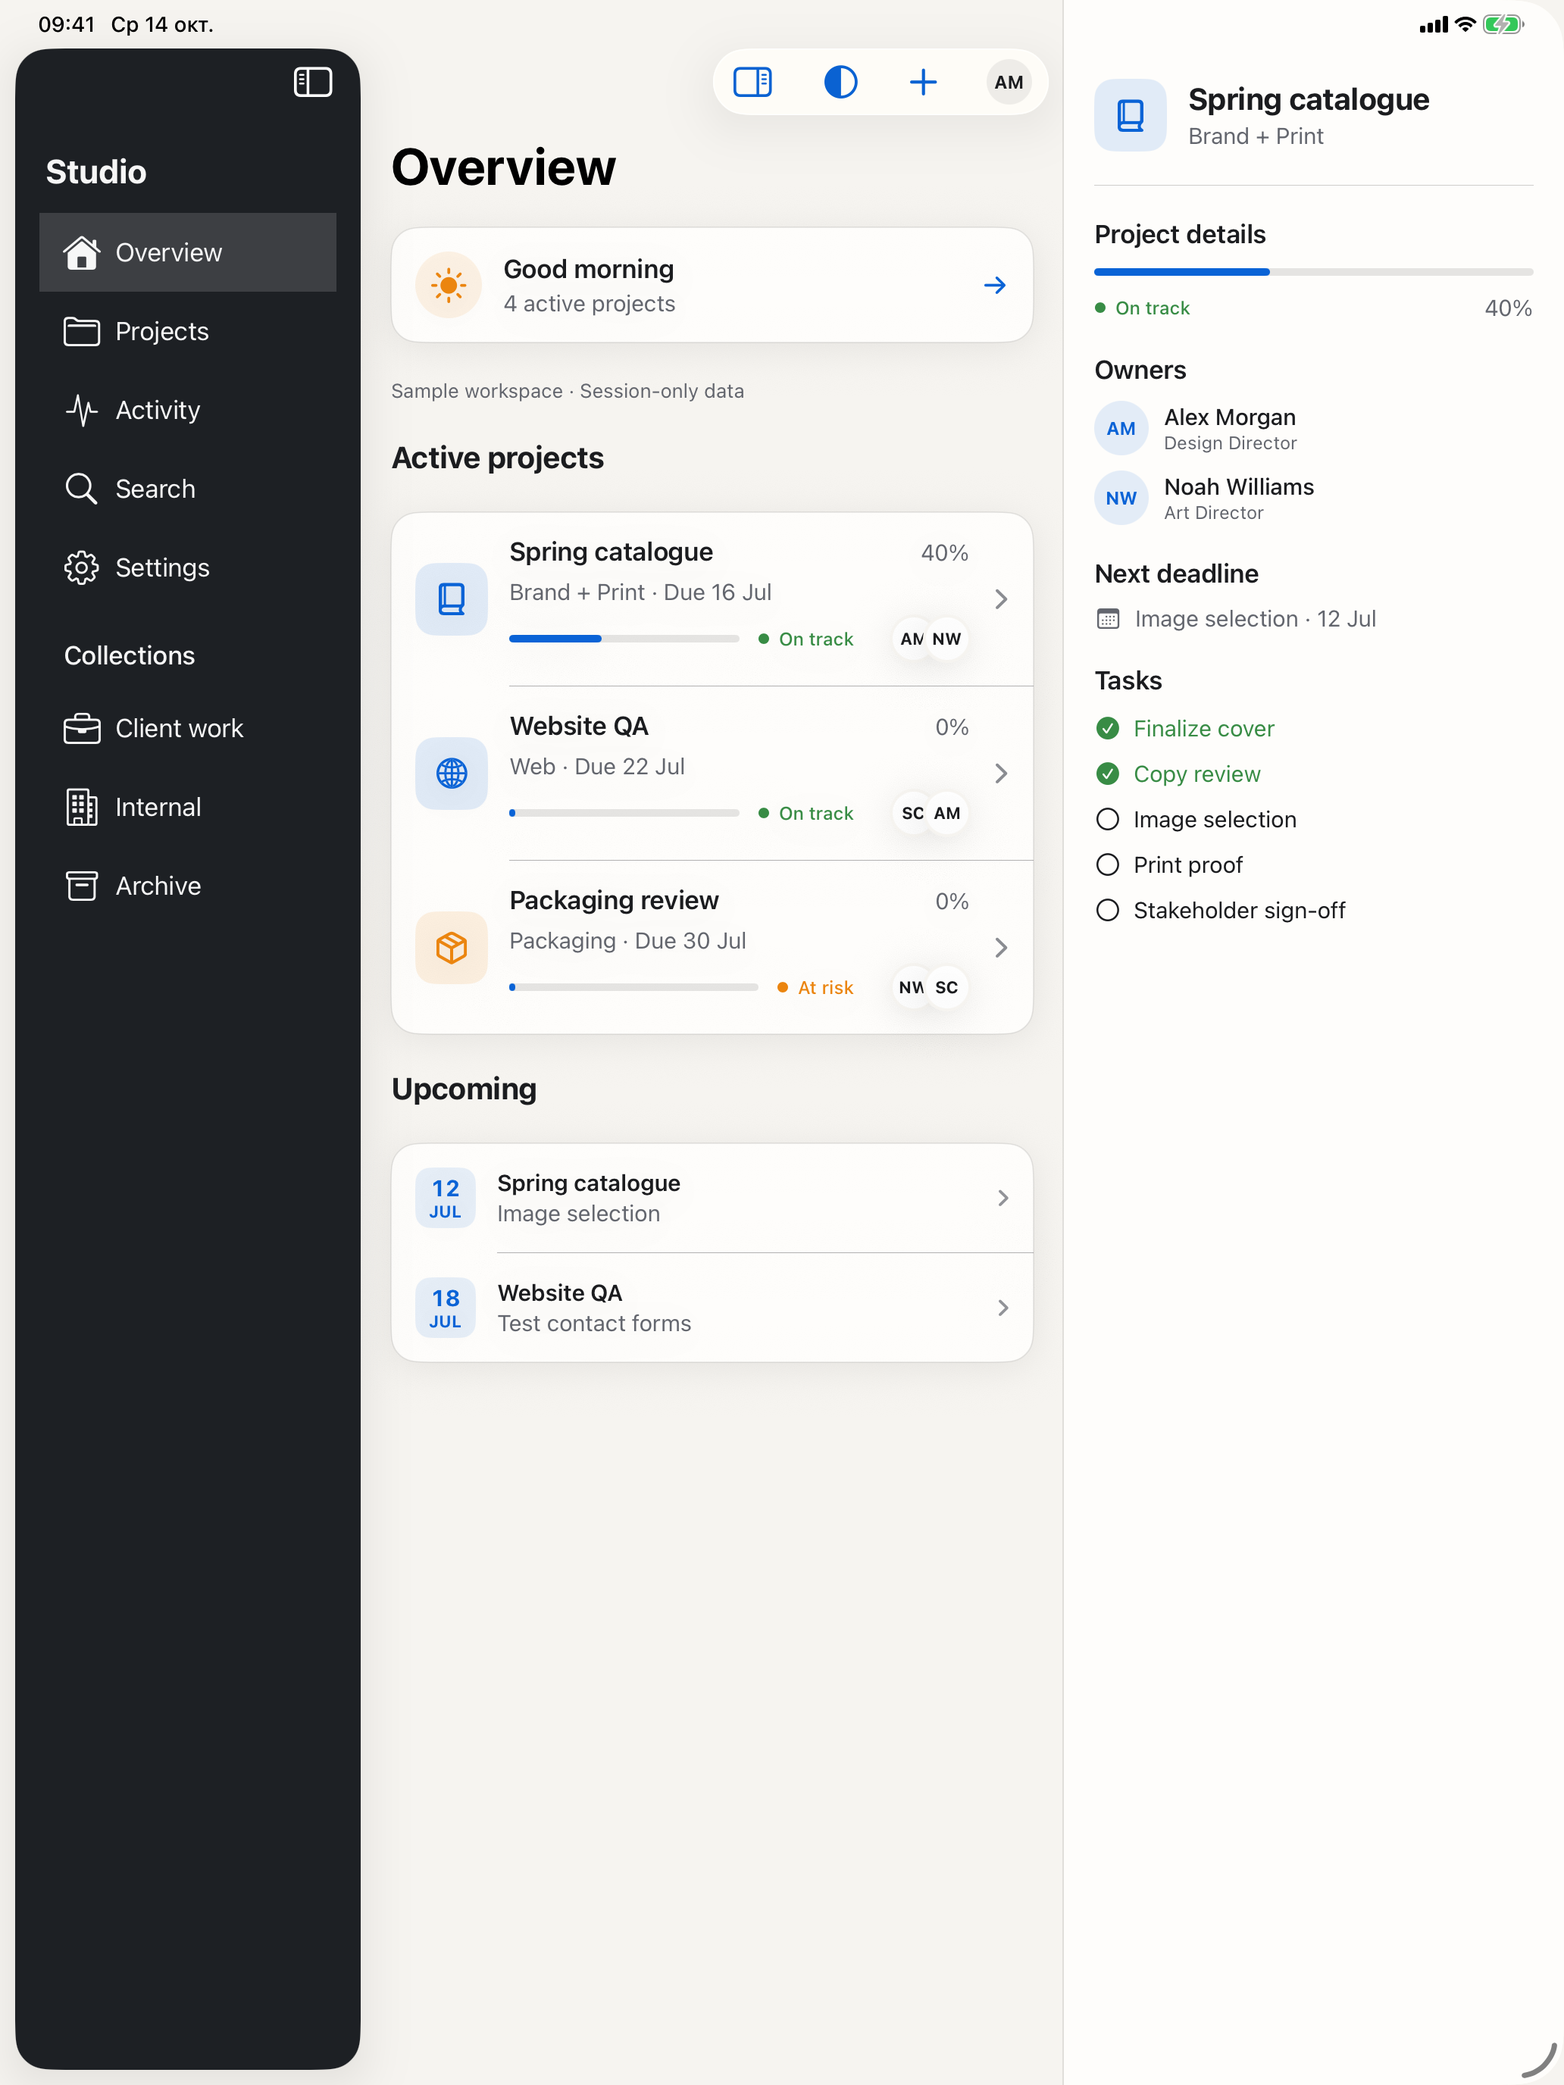
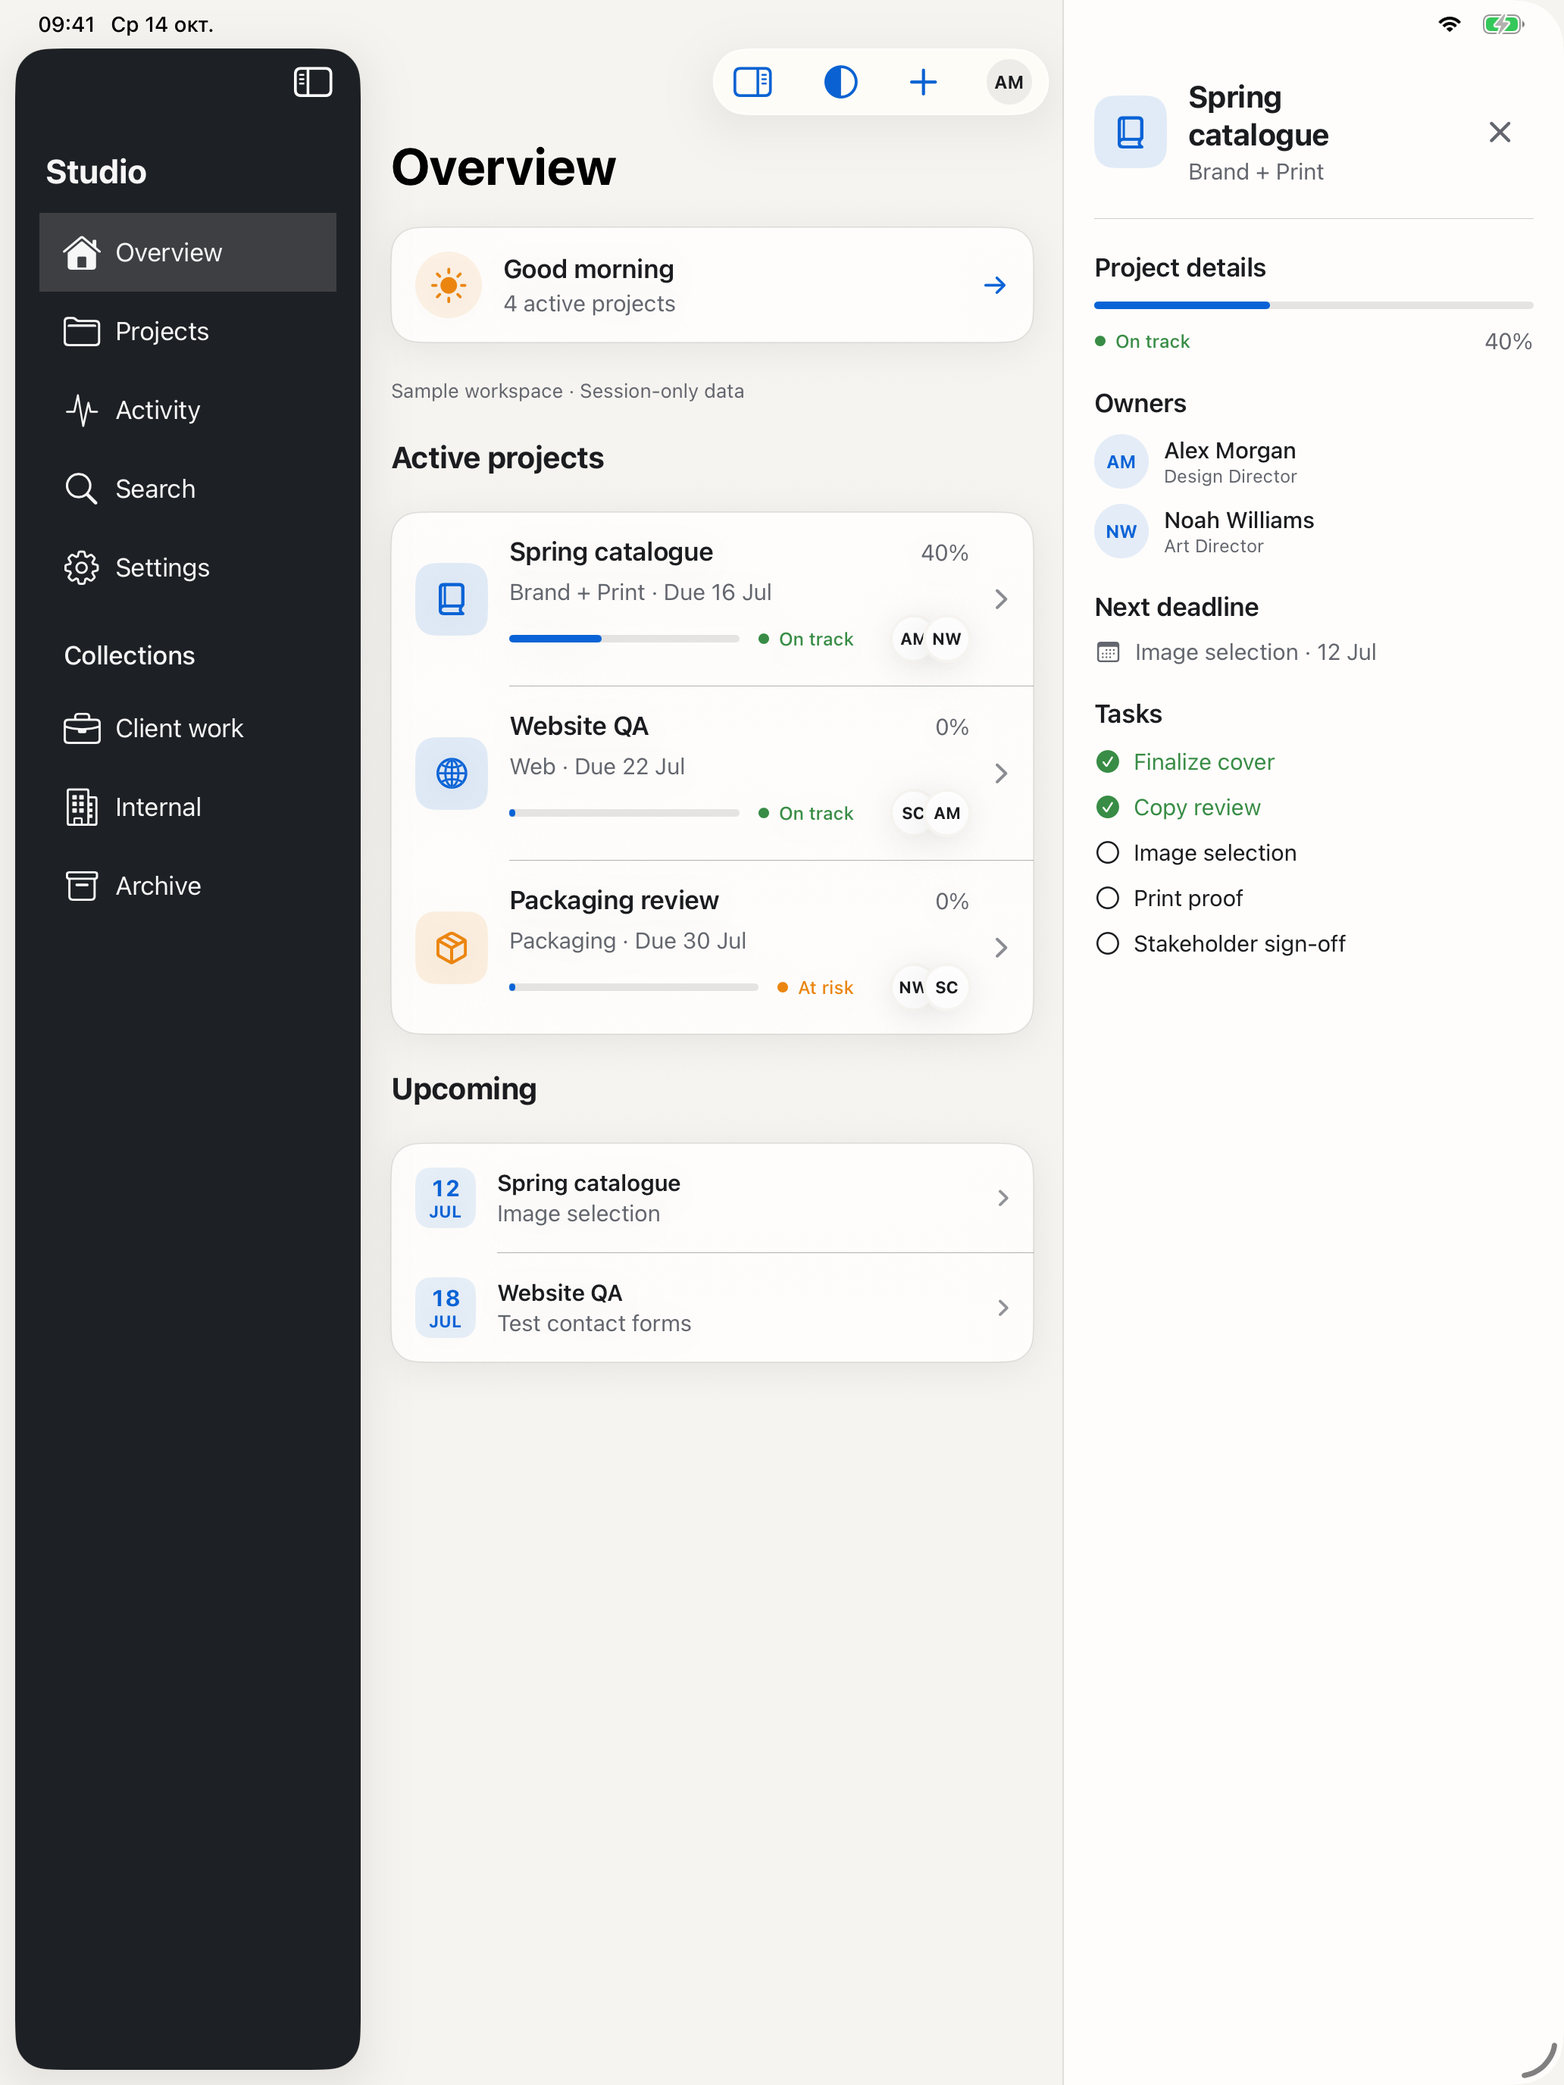
Make native modal inspector dismissal accessible and verify its lifecycle

Changed region(s): [[0.6822, 0.0312, 0.9922, 0.4688]]

diff --git a/Examples/AdaptiveShellDemo/AdaptiveShellDemoUITests/StudioNavigationUITests.swift b/Examples/AdaptiveShellDemo/AdaptiveShellDemoUITests/StudioNavigationUITests.swift
@@ -1,3 +1,4 @@
+import UIKit
 import XCTest
 
 @MainActor
@@ -20,14 +21,14 @@ final class StudioNavigationUITests: XCTestCase {
         let app = launchStudio()
         let inspector = app.buttons["adaptive-shell-inspector-toggle"]
         if inspector.exists {
-            if inspector.label == "Hide inspector" { inspector.tap() }
+            closeStudioInspector(in: app)
             XCTAssertEqual(inspector.label, "Show inspector")
-            XCTAssertFalse(app.staticTexts["inspector-progress"].exists)
+            XCTAssertFalse(app.staticTexts["inspector-progress"].isHittable)
         }
         selectStudioTab("Projects", in: app)
         app.buttons["project-packaging-review"].tap()
         XCTAssertTrue(app.navigationBars["Packaging review"].waitForExistence(timeout: 5))
-        XCTAssertFalse(app.staticTexts["inspector-progress"].exists)
+        XCTAssertFalse(app.staticTexts["inspector-progress"].isHittable)
         selectStudioTab("Search", in: app)
         app.buttons["project-website-qa"].tap()
         XCTAssertTrue(app.navigationBars["Website QA"].waitForExistence(timeout: 5))
@@ -36,18 +37,46 @@ final class StudioNavigationUITests: XCTestCase {
     }
 
     func testProjectOpeningWithInspectorInitiallyOpen() {
-        let app = launchStudio(["--inspector"])
+        defer { XCUIDevice.shared.orientation = .portrait }
+        let app = launchStudio(["--inspector"], inspectorColumn: true)
+        if UIDevice.current.userInterfaceIdiom == .pad {
+            XCTAssertTrue(app.staticTexts["inspector-progress"].isHittable)
+        }
         app.buttons["project-spring-catalogue"].tap()
         XCTAssertTrue(app.navigationBars["Spring catalogue"].waitForExistence(timeout: 5))
         selectStudioTab("Search", in: app)
         app.buttons["project-website-qa"].tap()
+        XCTAssertTrue(app.navigationBars["Website QA"].waitForExistence(timeout: 5))
+        if UIDevice.current.userInterfaceIdiom == .pad {
+            verifyPortraitInspectorLifecycle()
+        }
+    }
+
+    private func verifyPortraitInspectorLifecycle() {
+        XCUIDevice.shared.orientation = .portrait
+        let app = launchStudio(["--inspector"])
+        let frame = app.windows.firstMatch.frame
+        XCTAssertLessThan(frame.width, frame.height)
+        let initialInspector = app.scrollViews["project-inspector-spring-catalogue"]
+        XCTAssertTrue(initialInspector.waitForExistence(timeout: 5))
+        XCTAssertTrue(initialInspector.isHittable)
+        closeStudioInspector(in: app)
+        let project = app.buttons["project-website-qa"]
+        XCTAssertTrue(project.isHittable)
+        project.tap()
+        let updatedInspector = app.scrollViews["project-inspector-website-qa"]
+        XCTAssertTrue(updatedInspector.waitForExistence(timeout: 5))
+        XCTAssertTrue(updatedInspector.isHittable)
+        XCTAssertTrue(app.staticTexts["Sam Campbell"].isHittable)
+        XCTAssertFalse(app.staticTexts["Noah Williams"].isHittable)
+        closeStudioInspector(in: app)
         XCTAssertTrue(app.navigationBars["Website QA"].waitForExistence(timeout: 5))
     }
 
     func testColdKnownDeepLinkOpensOneCorrectDestination() {
         let known = URL(string: "adaptiveshell://project/website-qa")!
         let app = openStudioURL(known)
-        XCTAssertTrue(app.navigationBars["Website QA"].waitForExistence(timeout: 10))
+        XCTAssertTrue(app.navigationBars["Website QA"].waitForExistence(timeout: 15))
         app.navigationBars["Website QA"].buttons.firstMatch.tap()
         XCTAssertTrue(app.buttons["project-website-qa"].waitForExistence(timeout: 5))
         XCTAssertFalse(app.navigationBars["Website QA"].exists)
@@ -55,13 +84,13 @@ final class StudioNavigationUITests: XCTestCase {
 
     func testColdUnknownAndMalformedDeepLinksDoNotOpenAnotherProject() {
         let app = openStudioURL(URL(string: "adaptiveshell://project/does-not-exist")!)
-        XCTAssertTrue(app.alerts["Project not found"].waitForExistence(timeout: 5))
+        XCTAssertTrue(app.alerts["Project not found"].waitForExistence(timeout: 15))
         app.alerts.buttons["OK"].tap()
-        XCTAssertTrue(app.navigationBars["Overview"].exists)
+        XCTAssertTrue(app.navigationBars["Overview"].waitForExistence(timeout: 5))
         _ = openStudioURL(URL(string: "adaptiveshell://project/spring-catalogue/extra")!)
-        XCTAssertTrue(app.alerts["Invalid link"].waitForExistence(timeout: 5))
+        XCTAssertTrue(app.alerts["Invalid link"].waitForExistence(timeout: 15))
         app.alerts.buttons["OK"].tap()
-        XCTAssertTrue(app.navigationBars["Overview"].exists)
+        XCTAssertTrue(app.navigationBars["Overview"].waitForExistence(timeout: 5))
         XCTAssertFalse(app.navigationBars["Spring catalogue"].exists)
     }
 

diff --git a/Examples/AdaptiveShellDemo/AdaptiveShellDemoUITests/StudioTestSupport.swift b/Examples/AdaptiveShellDemo/AdaptiveShellDemoUITests/StudioTestSupport.swift
@@ -1,3 +1,4 @@
+import UIKit
 import XCTest
 
 @MainActor
@@ -19,12 +20,25 @@ extension XCTestCase {
         return app
     }
 
-    func launchStudio(_ arguments: [String] = []) -> XCUIApplication {
+    func launchStudio(_ arguments: [String] = [], inspectorColumn: Bool = false) -> XCUIApplication {
         continueAfterFailure = false
         let app = XCUIApplication()
         app.launchArguments = arguments
         app.launch()
         XCTAssertTrue(app.buttons["new-project"].waitForExistence(timeout: 10))
+        if inspectorColumn && UIDevice.current.userInterfaceIdiom == .pad {
+            XCUIDevice.shared.orientation = .landscapeLeft
+            let landscape = XCTNSPredicateExpectation(
+                predicate: NSPredicate { object, _ in
+                    guard let window = object as? XCUIElement else { return false }
+                    return window.frame.width > window.frame.height
+                },
+                object: app.windows.firstMatch
+            )
+            wait(for: [landscape], timeout: 10)
+            let frame = app.windows.firstMatch.frame
+            XCTAssertGreaterThan(frame.width, frame.height)
+        }
         return app
     }
 
@@ -41,6 +55,25 @@ extension XCTestCase {
             XCTAssertTrue(sidebar.waitForExistence(timeout: 5), title)
             sidebar.tap()
         }
+    }
+
+    func closeStudioInspector(in app: XCUIApplication) {
+        let toggle = app.buttons["adaptive-shell-inspector-toggle"]
+        guard toggle.waitForExistence(timeout: 5) else {
+            XCTFail("The regular window must expose its inspector control.")
+            return
+        }
+        let close = app.buttons["inspector-close"]
+        if toggle.label == "Hide inspector" || close.isHittable {
+            XCTAssertTrue(close.waitForExistence(timeout: 5))
+            XCTAssertTrue(close.isHittable)
+            close.tap()
+            let hidden = XCTNSPredicateExpectation(
+                predicate: NSPredicate(format: "hittable == false"), object: close
+            )
+            wait(for: [hidden], timeout: 5)
+        }
+        XCTAssertEqual(toggle.label, "Show inspector")
     }
 
     func replaceSearchQuery(_ query: String, in app: XCUIApplication) {

diff --git a/Examples/AdaptiveShellDemo/AdaptiveShellDemo/ProjectDetailView.swift b/Examples/AdaptiveShellDemo/AdaptiveShellDemo/ProjectDetailView.swift
@@ -125,6 +125,7 @@ struct ProjectInspectorView: View {
 
     let project: StudioProject
     var showProgress = true
+    let onClose: () -> Void
 
     var body: some View {
         ScrollView {
@@ -141,6 +142,17 @@ struct ProjectInspectorView: View {
                             .font(.subheadline)
                             .foregroundStyle(theme.secondaryText)
                     }
+                    Spacer(minLength: 0)
+                    Button(role: .cancel, action: onClose) {
+                        Image(systemName: "xmark")
+                            .font(.body.weight(.semibold))
+                            .frame(width: 44, height: 44)
+                            .contentShape(Rectangle())
+                    }
+                    .buttonStyle(.plain)
+                    .foregroundStyle(theme.secondaryText)
+                    .accessibilityLabel("Close inspector")
+                    .accessibilityIdentifier("inspector-close")
                 }
 
                 Divider()

diff --git a/Examples/AdaptiveShellDemo/AdaptiveShellDemo/DemoRootView.swift b/Examples/AdaptiveShellDemo/AdaptiveShellDemo/DemoRootView.swift
@@ -82,7 +82,9 @@ struct DemoRootView: View {
             },
             inspector: { _ in
                 if let project = coordinator.inspectorProject {
-                    ProjectInspectorView(project: project, showProgress: store.showProgress)
+                    ProjectInspectorView(project: project, showProgress: store.showProgress) {
+                        shellState.isInspectorPresented = false
+                    }
                 } else {
                     StudioEmptyState(
                         title: "No project selected",

diff --git a/Examples/AdaptiveShellDemo/AdaptiveShellDemoUITests/StudioDataUITests.swift b/Examples/AdaptiveShellDemo/AdaptiveShellDemoUITests/StudioDataUITests.swift
@@ -28,7 +28,8 @@ final class StudioDataUITests: XCTestCase {
     }
 
     func testTaskChangesUpdateProgressAndSettingsHaveVisibleEffects() {
-        let app = launchStudio()
+        defer { XCUIDevice.shared.orientation = .portrait }
+        let app = launchStudio(inspectorColumn: true)
         app.buttons["project-spring-catalogue"].tap()
         XCTAssertEqual(app.staticTexts["detail-progress"].label, "40%")
         let task = app.buttons["task-spring-catalogue-images"]

diff --git a/Docs/Validation.md b/Docs/Validation.md
@@ -68,6 +68,10 @@ The baseline is `ed5cc9573a7258cc2549125d538102c9029e753a` (released 1.0.3). A s
 
 These native runs used Xcode 27.0. Compatibility/current CI results are recorded with the exact candidate commit in the pull request; local execution does not substitute for those toolchains. Physical iOS 17/macOS 14 checks remain pending.
 
+Inspector column interactions explicitly use a wide landscape iPad window and require its content to be hittable. On a narrower window the native inspector may adapt to a modal presentation, which must be dismissed before interacting with the background. Closing assertions check that inspector content is no longer hittable: iOS 18 may retain hidden inspector elements in its accessibility tree after dismissal.
+
+The inspector-enabled navigation test also exercises portrait presentation: use the panel's Close inspector button, require the project row to be hittable, open Website QA, verify that the preference reopens the correct inspector with Sam Campbell, then close it and require the underlying Website QA detail. The close action changes presentation only and preserves the preference to reopen the inspector for another project.
+
 Five portrait screenshots and the actual showcase GIF were refreshed and visually inspected. The local XCTest landscape attachment has a rotated/cropped framebuffer despite the passing wide-window interaction assertions; it is excluded from current screenshot assets. Its image-capture verification remains pending, separately from the hosted interaction results.
 
 ## Physical-device result form

diff --git a/Docs/ReleaseNotes-1.0.4.md b/Docs/ReleaseNotes-1.0.4.md
@@ -6,6 +6,8 @@ When a selected section disappears, the shell now presents the remaining valid d
 
 The Studio demo now opens the selected project from Overview, Projects and Search in both presentations. Creating a named project inserts a real session-only record into list/search and opens it. Task changes update shared progress and inspector data. Both workspace settings have visible effects. Scoped search trims the query, ignores case, respects empty-query scopes and displays **No results** when its visible result set is empty.
 
+The inspector includes an accessible close control inside the panel, so it can be dismissed when a narrow native modal presentation covers the main toolbar. Closing does not disable the workspace preference to reopen it for a later project.
+
 Known project links replace one Projects path. Unknown IDs, extra path segments, credentials, queries and fragments produce explicit errors before navigation changes. A missing project is never replaced by the first fixture.
 
 Hosted demo and external-consumer checks supplement package tests. CI retains compatibility/current SDK gates and accepts both plain SemVer and `v`-prefixed tags. Capture creates and cleans its own simulator and recorder. Theme snapshots use the hosting window and cancelled transitions release their image.

diff --git a/Docs/Migration-1.0.4.md b/Docs/Migration-1.0.4.md
@@ -21,3 +21,7 @@ The regular stack is keyed by tab ID, so a tab switch presents that tab's actual
 The package cannot decide whether an app-owned route ID still exists. Validate restored or URL-derived routes before applying them, and provide an honest unavailable destination when a record disappears. The Studio example demonstrates this without adding storage or URL semantics to the package.
 
 Theme 1.x IDs continue to identify the documented preset family. Application persistence remains optional and app-owned.
+
+## Inspector presentation
+
+The native inspector can adapt to a modal presentation in a narrow window. Provide a close action inside custom inspector content so it remains reachable when the main toolbar is covered; setting `state.isInspectorPresented = false` dismisses it. The Studio example keeps this action separate from its workspace preference to reopen the inspector for later project navigation.

diff --git a/CHANGELOG.md b/CHANGELOG.md
@@ -6,6 +6,7 @@
 - Give each regular detail stack its tab identity to preserve the correct visible destination when switching tabs.
 - Open Studio projects consistently from Overview, Projects, Search, creation and validated links, regardless of inspector visibility.
 - Add session-only creation, shared task/progress data, effective settings and scoped search with retained query/scope.
+- Provide an accessible close action inside Studio's inspector for narrow native modal presentations.
 - Reject unknown and malformed links explicitly, without fixture fallback or navigation mutations.
 - Capture theme transitions from their hosting window and cancel pending transition work on disappearance.
 - Add hosted demo tests and a separate public consumer; align version-tag triggers, pinned tools and owned-simulator capture.
